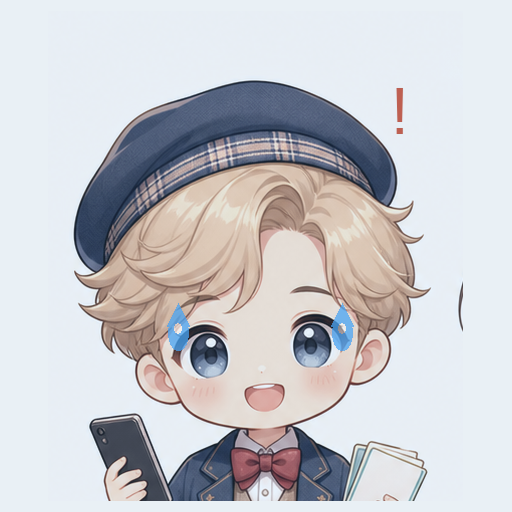
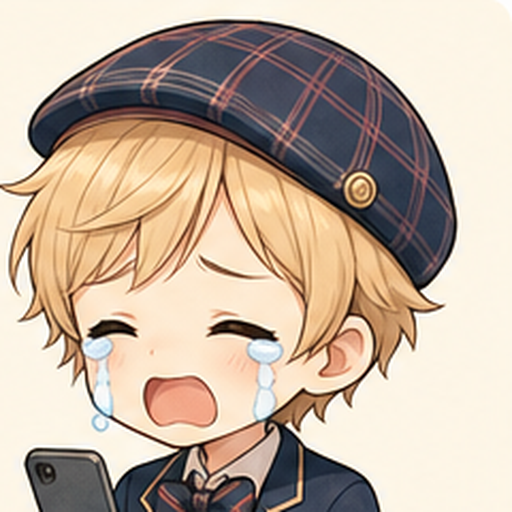
Regenerate character expression images

diff --git a/scripts/generate-character-expressions.py b/scripts/generate-character-expressions.py
@@ -1,125 +1,33 @@
 from pathlib import Path
-from PIL import Image, ImageDraw, ImageEnhance, ImageFont, ImageFilter
+from PIL import Image
 
 
 ROOT = Path(__file__).resolve().parents[1]
-SOURCE = ROOT / "assets" / "characters-concept-traditional.png"
+SHEET = ROOT / "assets" / "characters-expression-sheet.png"
 OUT_DIR = ROOT / "assets" / "characters"
-SIZE = 512
 
-CHARACTERS = {
-    "japanese": (20, 210, 430, 700),
-    "english": (420, 180, 835, 670),
-    "korean": (820, 220, 1240, 710),
-}
-
+CHARACTERS = ("japanese", "english", "korean")
 EXPRESSIONS = ("normal", "happy", "sad", "wonder", "smile", "cry")
-
-
-def font(size):
-    candidates = [
-        "C:/Windows/Fonts/meiryo.ttc",
-        "C:/Windows/Fonts/seguiemj.ttf",
-        "C:/Windows/Fonts/arial.ttf",
-    ]
-    for candidate in candidates:
-        if Path(candidate).exists():
-            return ImageFont.truetype(candidate, size)
-    return ImageFont.load_default()
-
-
-def fit_square(source, box):
-    crop = source.crop(box).convert("RGBA")
-    crop.thumbnail((SIZE - 20, SIZE - 20), Image.Resampling.LANCZOS)
-    canvas = Image.new("RGBA", (SIZE, SIZE), (255, 250, 242, 255))
-    x = (SIZE - crop.width) // 2
-    y = (SIZE - crop.height) // 2
-    canvas.alpha_composite(crop, (x, y))
-    return canvas
-
-
-def tint(img, color, alpha):
-    overlay = Image.new("RGBA", img.size, color + (alpha,))
-    return Image.alpha_composite(img.convert("RGBA"), overlay)
-
-
-def draw_star(draw, cx, cy, r, color):
-    points = [
-        (cx, cy - r),
-        (cx + r * 0.25, cy - r * 0.25),
-        (cx + r, cy),
-        (cx + r * 0.25, cy + r * 0.25),
-        (cx, cy + r),
-        (cx - r * 0.25, cy + r * 0.25),
-        (cx - r, cy),
-        (cx - r * 0.25, cy - r * 0.25),
-    ]
-    draw.polygon(points, fill=color)
-
-
-def add_cheeks(draw, strength=70):
-    for x, y in ((160, 365), (360, 365)):
-        draw.ellipse((x - 28, y - 12, x + 28, y + 12), fill=(255, 116, 138, strength))
-
-
-def add_tears(draw, count=1):
-    tear_color = (72, 165, 245, 190)
-    positions = [(342, 320), (178, 320)] if count > 1 else [(342, 320)]
-    for x, y in positions:
-        draw.ellipse((x - 10, y - 5, x + 10, y + 30), fill=tear_color)
-        draw.polygon(((x, y - 17), (x - 11, y + 6), (x + 11, y + 6)), fill=tear_color)
-        draw.ellipse((x - 4, y + 3, x + 3, y + 13), fill=(255, 255, 255, 120))
-
-
-def add_expression(base, expression):
-    img = base.copy()
-    if expression == "normal":
-        return img
-
-    if expression == "happy":
-        img = tint(ImageEnhance.Color(img).enhance(1.12), (255, 241, 170), 30)
-    elif expression == "smile":
-        img = tint(ImageEnhance.Color(img).enhance(1.05), (255, 231, 236), 22)
-    elif expression in ("sad", "cry"):
-        img = tint(ImageEnhance.Color(img).enhance(0.78), (128, 190, 255), 42 if expression == "cry" else 28)
-    elif expression == "wonder":
-        img = tint(ImageEnhance.Color(img).enhance(0.92), (236, 224, 255), 34)
-
-    overlay = Image.new("RGBA", img.size, (0, 0, 0, 0))
-    draw = ImageDraw.Draw(overlay)
-
-    if expression == "happy":
-        add_cheeks(draw, 95)
-        for spec in ((95, 95, 23), (405, 120, 18), (395, 330, 16), (112, 360, 15)):
-            draw_star(draw, *spec, (255, 195, 54, 230))
-        draw.text((384, 66), "◎", fill=(47, 125, 69, 240), font=font(54))
-    elif expression == "smile":
-        add_cheeks(draw, 65)
-        draw.text((395, 90), "♪", fill=(217, 95, 75, 220), font=font(60))
-        draw_star(draw, 105, 120, 15, (255, 202, 91, 190))
-    elif expression == "sad":
-        add_tears(draw, 1)
-        draw.text((390, 78), "...", fill=(68, 103, 150, 230), font=font(44))
-    elif expression == "wonder":
-        draw.text((84, 78), "?", fill=(111, 85, 190, 230), font=font(72))
-        draw.text((382, 96), "?", fill=(111, 85, 190, 200), font=font(58))
-        draw_star(draw, 118, 360, 14, (255, 196, 77, 190))
-    elif expression == "cry":
-        add_tears(draw, 2)
-        draw.text((388, 68), "!", fill=(185, 79, 63, 230), font=font(62))
-
-    overlay = overlay.filter(ImageFilter.GaussianBlur(0.15))
-    return Image.alpha_composite(img, overlay)
+OUTPUT_SIZE = 512
 
 
 def main():
     OUT_DIR.mkdir(parents=True, exist_ok=True)
-    source = Image.open(SOURCE)
-    for character, box in CHARACTERS.items():
-        base = fit_square(source, box)
-        for expression in EXPRESSIONS:
-            out = add_expression(base, expression)
-            out.save(OUT_DIR / f"{character}-{expression}.png")
+    sheet = Image.open(SHEET).convert("RGBA")
+    cell_width = sheet.width // len(EXPRESSIONS)
+    cell_height = sheet.height // len(CHARACTERS)
+
+    for row, character in enumerate(CHARACTERS):
+        for column, expression in enumerate(EXPRESSIONS):
+            left = column * cell_width
+            top = row * cell_height
+            inset = 8
+            square = cell_width - inset * 2
+            cell = sheet.crop((left + inset, top + inset, left + inset + square, top + inset + square))
+            cell = cell.resize((OUTPUT_SIZE, OUTPUT_SIZE), Image.Resampling.LANCZOS)
+            canvas = Image.new("RGBA", (OUTPUT_SIZE, OUTPUT_SIZE), (255, 250, 242, 255))
+            canvas.alpha_composite(cell, (0, 0))
+            canvas.save(OUT_DIR / f"{character}-{expression}.png")
 
 
 if __name__ == "__main__":
